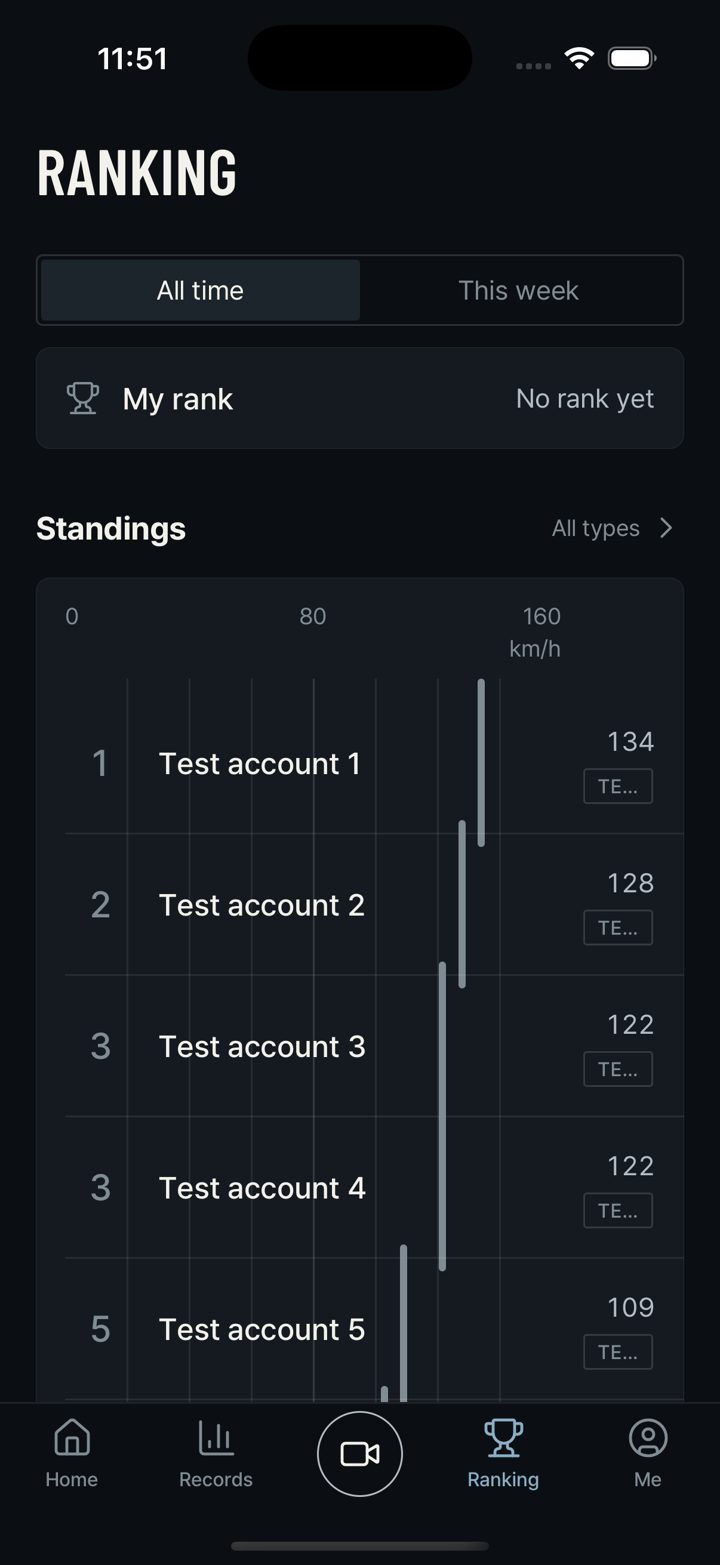
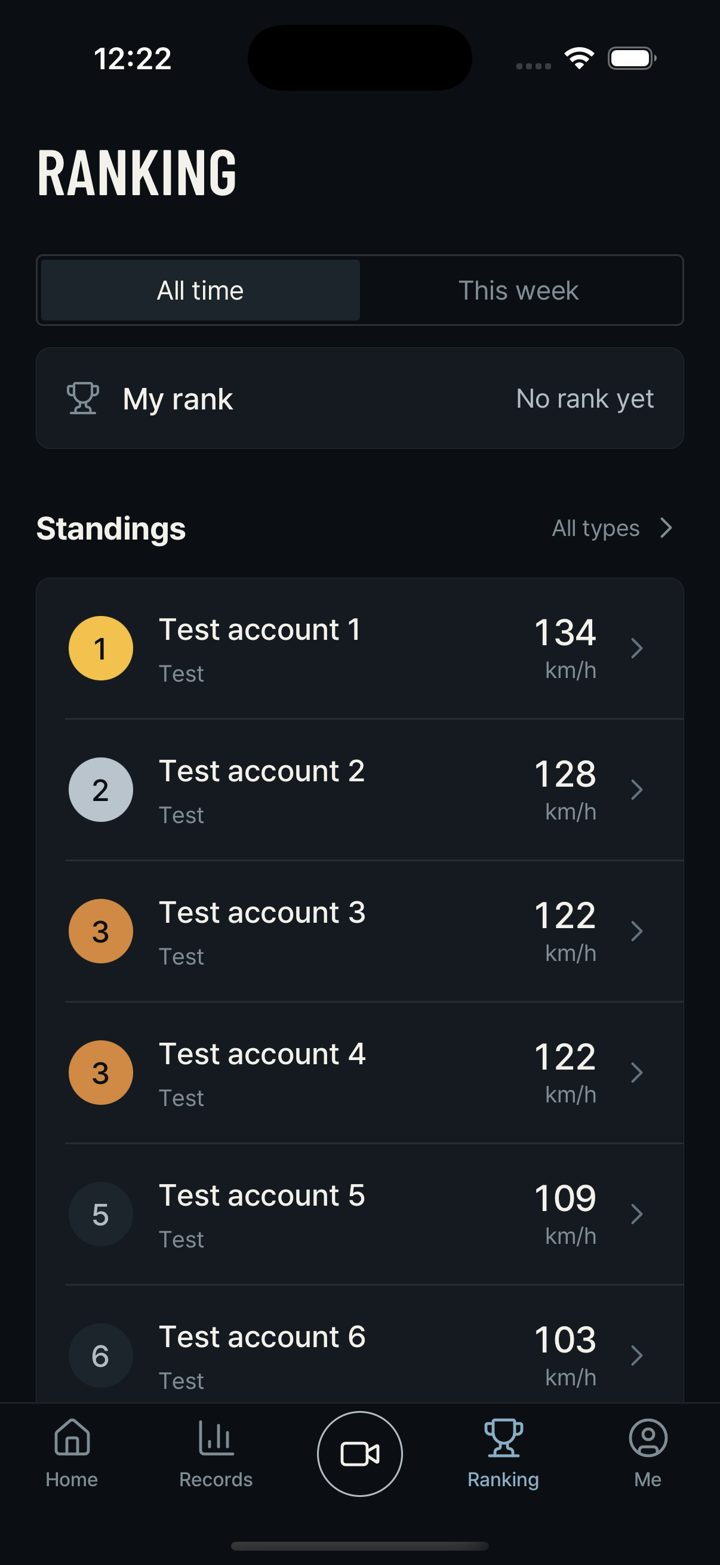
rev 5: ranking list redrawn

diff --git a/index.html b/index.html
@@ -12,8 +12,8 @@ figcaption{font-size:13px;color:var(--muted);margin-top:8px}
 .note{background:var(--card);border:1px solid var(--line);border-radius:12px;padding:12px 16px;margin:12px 0}
 footer{max-width:1400px;margin:24px auto;padding:16px 20px;border-top:1px solid var(--line);color:var(--muted);font-size:13px}
 </style></head><body>
-<header><h1>STRYKE — UI preview</h1><p>Native iOS simulator captures (iPhone 17 Pro), 17 September 2026 (rev 4: personal-best tiers, live ranking board), branch <code>vxbrandon/dev-2026-09-17-2</code>. Every player, similarity figure and shot map on these screens is <strong>example data</strong> and is marked as such on the screen itself.</p>
+<header><h1>STRYKE — UI preview</h1><p>Native iOS simulator captures (iPhone 17 Pro), 17 September 2026 (rev 5: ranking list redrawn, byte-level upload bar), branch <code>vxbrandon/dev-2026-09-17-2</code>. Every player, similarity figure and shot map on these screens is <strong>example data</strong> and is marked as such on the screen itself.</p>
 <div class="note">Flow: loading animation → landing page (first launch only) → Home (my stats · pro match · players) → player card (shot map · zone % · speed · stats · add friend) → Records (ribbon chart) → Ranking → Me.</div></header>
-<section><h2>Loading</h2><div class="row"><figure><img src="img/00-splash_8.jpg" alt="Loading page — the STRYKE mark strikes in along its outline" loading="lazy"><figcaption>Loading page — the STRYKE mark strikes in along its outline</figcaption></figure><figure><img src="img/01-splash_9.jpg" alt="Loading page — the lime accent flashes along the stroke" loading="lazy"><figcaption>Loading page — the lime accent flashes along the stroke</figcaption></figure><figure><img src="img/02-splash_10.jpg" alt="Loading page — filled mark and wordmark, before the plate lifts" loading="lazy"><figcaption>Loading page — filled mark and wordmark, before the plate lifts</figcaption></figure></div></section><section><h2>Landing</h2><div class="row"><figure><img src="img/03-w1.jpg" alt="Landing page (first launch) — silhouettes from the asset board, three promises, Get started" loading="lazy"><figcaption>Landing page (first launch) — silhouettes from the asset board, three promises, Get started</figcaption></figure></div></section><section><h2>Home</h2><div class="row"><figure><img src="img/04-home_top.jpg" alt="Home — capture first, recent session" loading="lazy"><figcaption>Home — capture first, recent session</figcaption></figure><figure><img src="img/05-home_c.jpg" alt="Home — My stats with tier, Pro match, Players rail with portraits and tier chips" loading="lazy"><figcaption>Home — My stats with tier, Pro match, Players rail with portraits and tier chips</figcaption></figure></div></section><section><h2>Records</h2><div class="row"><figure><img src="img/06-records.jpg" alt="Records — weekly top speed as a smoothed line with a fading uncertainty band" loading="lazy"><figcaption>Records — weekly top speed as a smoothed line with a fading uncertainty band</figcaption></figure></div></section><section><h2>Players</h2><div class="row"><figure><img src="img/07-list1.jpg" alt="Players list — portraits, foot and tier in the subtitle, example mark on every row" loading="lazy"><figcaption>Players list — portraits, foot and tier in the subtitle, example mark on every row</figcaption></figure></div></section><section><h2>Player card</h2><div class="row"><figure><img src="img/08-p1b.jpg" alt="Player card — portrait, tier chip, shots · sessions · active days, Add friend" loading="lazy"><figcaption>Player card — portrait, tier chip, shots · sessions · active days, Add friend</figcaption></figure><figure><img src="img/09-p9.jpg" alt="Player card — Shot map: green inside, red outside" loading="lazy"><figcaption>Player card — Shot map: green inside, red outside</figcaption></figure><figure><img src="img/10-p6.jpg" alt="Player card — Zone % grid on the blue heat scale" loading="lazy"><figcaption>Player card — Zone % grid on the blue heat scale</figcaption></figure><figure><img src="img/11-p7b.jpg" alt="Player card — Speed: smoothed weekly line, gap for the week with no record" loading="lazy"><figcaption>Player card — Speed: smoothed weekly line, gap for the week with no record</figcaption></figure><figure><img src="img/12-p7c.jpg" alt="Player card — Speed on a player with four measured weeks" loading="lazy"><figcaption>Player card — Speed on a player with four measured weeks</figcaption></figure><figure><img src="img/13-p8.jpg" alt="Player card — Stats tab with the personal-best tier row" loading="lazy"><figcaption>Player card — Stats tab with the personal-best tier row</figcaption></figure><figure><img src="img/14-me1.jpg" alt="My own card — built from the phone&#x27;s real shots" loading="lazy"><figcaption>My own card — built from the phone&#x27;s real shots</figcaption></figure></div></section><section><h2>Ranking</h2><div class="row"><figure><img src="img/15-rankings.jpg" alt="Ranking — live board from the local API (nine seeded test accounts); rows open a player card" loading="lazy"><figcaption>Ranking — live board from the local API (nine seeded test accounts); rows open a player card</figcaption></figure></div></section><section><h2>Me</h2><div class="row"><figure><img src="img/16-metab.jpg" alt="Me — personal best as a tier (Silver · reached 60 km/h · Gold at 80), My player card, Intro" loading="lazy"><figcaption>Me — personal best as a tier (Silver · reached 60 km/h · Gold at 80), My player card, Intro</figcaption></figure></div></section>
+<section><h2>Loading</h2><div class="row"><figure><img src="img/00-splash_8.jpg" alt="Loading page — the STRYKE mark strikes in along its outline" loading="lazy"><figcaption>Loading page — the STRYKE mark strikes in along its outline</figcaption></figure><figure><img src="img/01-splash_9.jpg" alt="Loading page — the lime accent flashes along the stroke" loading="lazy"><figcaption>Loading page — the lime accent flashes along the stroke</figcaption></figure><figure><img src="img/02-splash_10.jpg" alt="Loading page — filled mark and wordmark, before the plate lifts" loading="lazy"><figcaption>Loading page — filled mark and wordmark, before the plate lifts</figcaption></figure></div></section><section><h2>Landing</h2><div class="row"><figure><img src="img/03-w1.jpg" alt="Landing page (first launch) — silhouettes from the asset board, three promises, Get started" loading="lazy"><figcaption>Landing page (first launch) — silhouettes from the asset board, three promises, Get started</figcaption></figure></div></section><section><h2>Home</h2><div class="row"><figure><img src="img/04-home_top.jpg" alt="Home — capture first, recent session" loading="lazy"><figcaption>Home — capture first, recent session</figcaption></figure><figure><img src="img/05-home_c.jpg" alt="Home — My stats with tier, Pro match, Players rail with portraits and tier chips" loading="lazy"><figcaption>Home — My stats with tier, Pro match, Players rail with portraits and tier chips</figcaption></figure></div></section><section><h2>Records</h2><div class="row"><figure><img src="img/06-records.jpg" alt="Records — weekly top speed as a smoothed line with a fading uncertainty band" loading="lazy"><figcaption>Records — weekly top speed as a smoothed line with a fading uncertainty band</figcaption></figure></div></section><section><h2>Players</h2><div class="row"><figure><img src="img/07-list1.jpg" alt="Players list — portraits, foot and tier in the subtitle, example mark on every row" loading="lazy"><figcaption>Players list — portraits, foot and tier in the subtitle, example mark on every row</figcaption></figure></div></section><section><h2>Player card</h2><div class="row"><figure><img src="img/08-p1b.jpg" alt="Player card — portrait, tier chip, shots · sessions · active days, Add friend" loading="lazy"><figcaption>Player card — portrait, tier chip, shots · sessions · active days, Add friend</figcaption></figure><figure><img src="img/09-p9.jpg" alt="Player card — Shot map: green inside, red outside" loading="lazy"><figcaption>Player card — Shot map: green inside, red outside</figcaption></figure><figure><img src="img/10-p6.jpg" alt="Player card — Zone % grid on the blue heat scale" loading="lazy"><figcaption>Player card — Zone % grid on the blue heat scale</figcaption></figure><figure><img src="img/11-p7b.jpg" alt="Player card — Speed: smoothed weekly line, gap for the week with no record" loading="lazy"><figcaption>Player card — Speed: smoothed weekly line, gap for the week with no record</figcaption></figure><figure><img src="img/12-p7c.jpg" alt="Player card — Speed on a player with four measured weeks" loading="lazy"><figcaption>Player card — Speed on a player with four measured weeks</figcaption></figure><figure><img src="img/13-p8.jpg" alt="Player card — Stats tab with the personal-best tier row" loading="lazy"><figcaption>Player card — Stats tab with the personal-best tier row</figcaption></figure><figure><img src="img/14-me1.jpg" alt="My own card — built from the phone&#x27;s real shots" loading="lazy"><figcaption>My own card — built from the phone&#x27;s real shots</figcaption></figure></div></section><section><h2>Ranking</h2><div class="row"><figure><img src="img/15-rankings.jpg" alt="Ranking — plain ranked list: podium discs, verified speed, test-account caption; rows open a player card" loading="lazy"><figcaption>Ranking — plain ranked list: podium discs, verified speed, test-account caption; rows open a player card</figcaption></figure></div></section><section><h2>Me</h2><div class="row"><figure><img src="img/16-metab.jpg" alt="Me — personal best as a tier (Silver · reached 60 km/h · Gold at 80), My player card, Intro" loading="lazy"><figcaption>Me — personal best as a tier (Silver · reached 60 km/h · Gold at 80), My player card, Intro</figcaption></figure></div></section>
 <footer>Loading frames are single simulator screenshots taken during the animation. The ranking board now reads the local API against the Homebrew Postgres; the nine rows are seeded test accounts and say so.</footer>
 </body></html>
